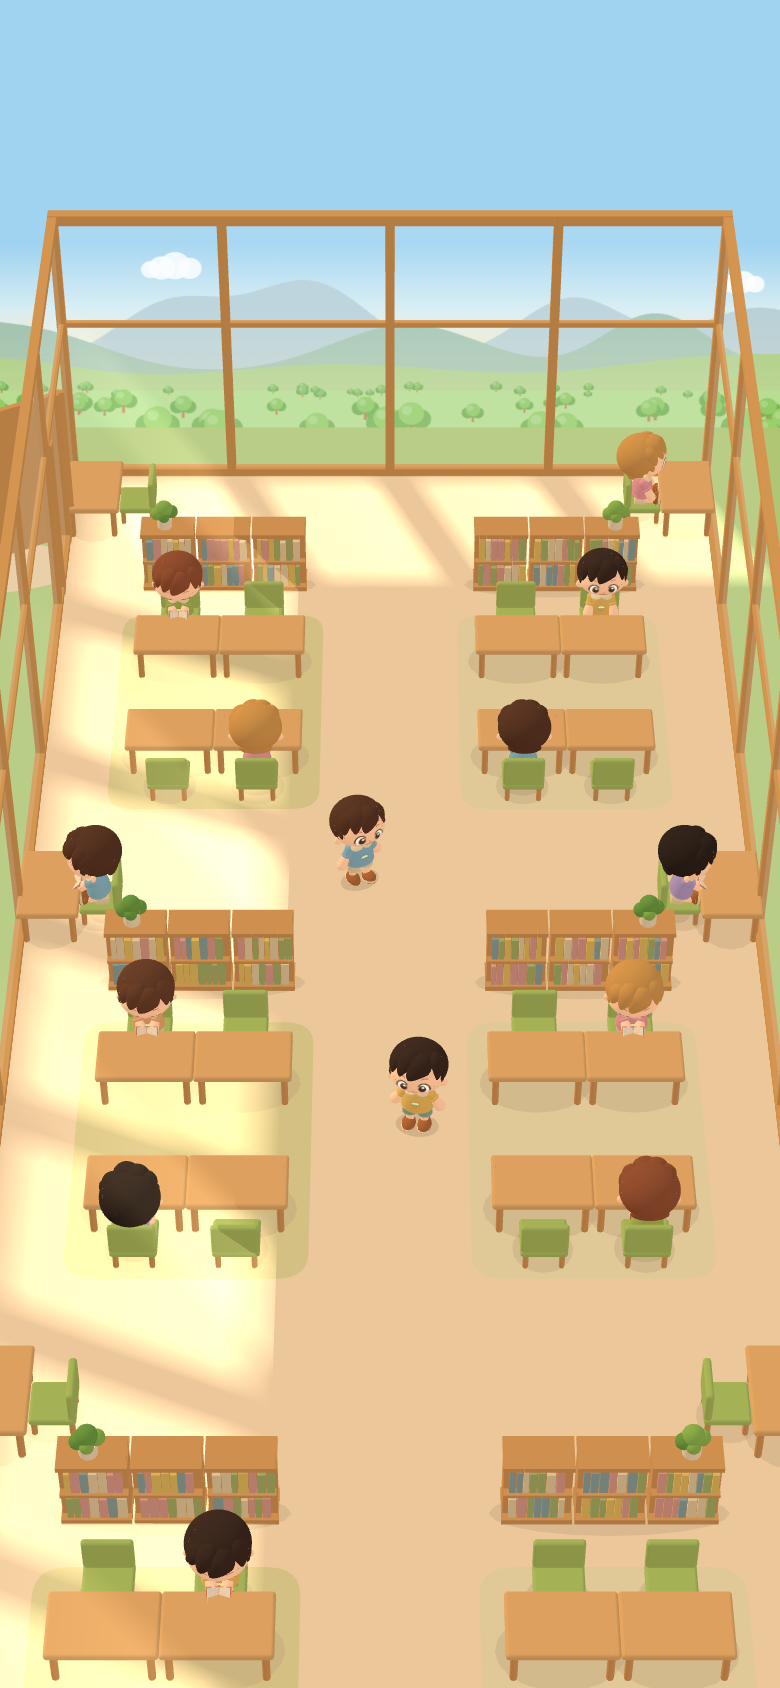
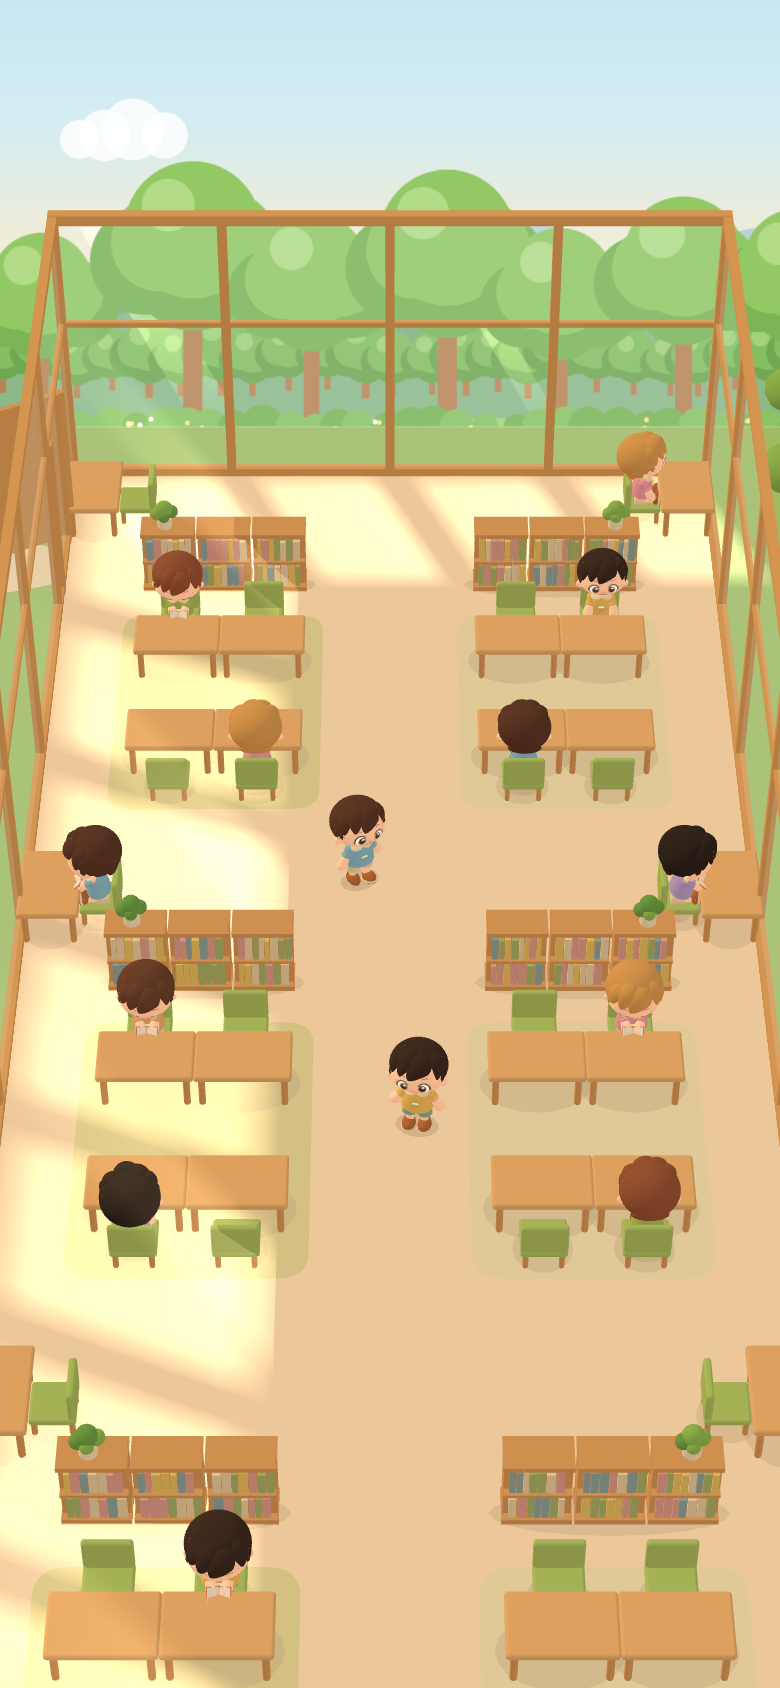
3D 도서관 시제품: 창밖을 숲속 풍경으로 바꾸고 도서관 둘레를 빽빽한 숲으로 감쌈
Claude-Session: https://claude.ai/code/session_0159aZotMhLJwovxiTTw4ndE

Changed region(s): [[0.0, 0.0, 1.0, 0.3081]]

diff --git a/prototype/3d-library/library.js b/prototype/3d-library/library.js
@@ -10,7 +10,7 @@ export const PALETTE = {
   floor: '#F5DFC2', wall: '#F7DFC0', frame: '#DDA765', shelf: '#D7A064',
   books: ['#A9BC78', '#E7C96F', '#8FAEB5', '#DFA7A0', '#EAD9B5'],
   desk: '#E6B477', chair: '#ACC76C', rug: '#DDD8A5', shadow: '#B39473',
-  leaf: '#8FBF5A', leafDark: '#6FA64C', pot: '#F3E6CC', grass: '#B8DE92', grassDark: '#A8D282', sky: '#CDEBFA', path: '#F3E3C2', trunk: '#C79562',
+  leaf: '#8FBF5A', leafDark: '#6FA64C', pot: '#F3E6CC', grass: '#A6D27C', grassDark: '#A8D282', sky: '#CDEBFA', path: '#F3E3C2', trunk: '#C79562',
 };
 const gx = (c) => (c - GRID.w / 2) * CELL, gz = (c) => (c - GRID.d / 2) * CELL;
 const deg = THREE.MathUtils.degToRad;
@@ -67,56 +67,58 @@ class Batch {
   }
 }
 
-function landscapeTexture() {
-  const W = 4096, H = 320, k = H / 1024, c = document.createElement('canvas'); c.width = W; c.height = H; const g = c.getContext('2d');
-  let sd = 11; const rnd = () => (sd = (sd * 16807) % 2147483647) / 2147483647;
-  // 하늘: 위는 맑은 하늘색, 산 쪽으로 갈수록 따뜻한 햇살색
-  const sky = g.createLinearGradient(0, 0, 0, H * 0.62);
-  sky.addColorStop(0, '#9FD3F0'); sky.addColorStop(0.55, '#D8EEF2'); sky.addColorStop(1, '#FFE9C6');
+// 창밖 숲 풍경: 아래쪽 띠(LAND_FRAC)가 통창 너머로 보이는 부분. 큰 나무는 그 위 하늘까지 솟음
+function landscapeTexture(aspect) {
+  const W = 4096, H = Math.round(W / aspect), c = document.createElement('canvas'); c.width = W; c.height = H; const g = c.getContext('2d');
+  const strip = H * LAND_FRAC, y0 = H - strip;       // y0: 보이는 띠의 위쪽 끝
+  let sd = 23; const rnd = () => (sd = (sd * 16807) % 2147483647) / 2147483647;
+  // 하늘
+  const sky = g.createLinearGradient(0, 0, 0, y0 + strip * 0.3);
+  sky.addColorStop(0, '#9FD3F0'); sky.addColorStop(0.7, '#D4EDF2'); sky.addColorStop(1, '#FFEBC8');
   g.fillStyle = sky; g.fillRect(0, 0, W, H);
-  // 해와 햇무리(왼쪽 위)
-  const sun = g.createRadialGradient(W * 0.2, H * 0.14, 0, W * 0.2, H * 0.14, H * 0.9);
-  sun.addColorStop(0, '#FFF6D8ff'); sun.addColorStop(0.12, '#FFEBB8cc'); sun.addColorStop(0.45, '#FFE2A833'); sun.addColorStop(1, '#FFE2A800');
+  const sun = g.createRadialGradient(W * 0.14, y0 - strip * 0.2, 0, W * 0.14, y0 - strip * 0.2, strip * 1.6);
+  sun.addColorStop(0, '#FFF7DCff'); sun.addColorStop(0.15, '#FFECBBcc'); sun.addColorStop(0.5, '#FFE3A833'); sun.addColorStop(1, '#FFE3A800');
   g.fillStyle = sun; g.fillRect(0, 0, W, H);
-  // 구름
   g.fillStyle = '#ffffffd9';
-  for (const [x, y, ck] of [[0.42, 0.12, 1], [0.62, 0.2, 0.8], [0.8, 0.09, 0.65], [0.3, 0.24, 0.55], [0.12, 0.3, 0.6], [0.95, 0.22, 0.7]]) for (const [dx, dy, r] of [[0, 0, 46], [44, -12, 54], [92, 2, 42], [-36, 8, 34]]) { g.beginPath(); g.arc(x * W + dx * ck * 1.4 * k, y * H + dy * ck * k, r * ck * 1.3 * k, 0, 7); g.fill(); }
-  // 산 능선: 부드러운 봉우리를 겹침
-  const ridge = (base, amp, peaks, color, top = '#ffffff00') => {
-    const grd = g.createLinearGradient(0, base - amp, 0, H); grd.addColorStop(0, color); grd.addColorStop(1, color);
-    g.fillStyle = grd; g.beginPath(); g.moveTo(0, H);
-    for (let x = 0; x <= W; x += 8) {
-      let y = base;
-      for (const [px, w, h] of peaks) y -= h * amp * Math.exp(-Math.pow((x / W - px) / w, 2));
-      g.lineTo(x, y);
-    }
+  for (const [x, y, k] of [[0.4, -0.55, 1], [0.66, -0.35, 0.8], [0.86, -0.7, 0.7], [0.27, -0.25, 0.55]]) for (const [dx, dy, r] of [[0, 0, 0.1], [0.09, -0.03, 0.12], [0.19, 0, 0.09], [-0.08, 0.02, 0.075]]) { g.beginPath(); g.arc(x * W + dx * strip * k * 1.6, y0 + y * strip + dy * strip * k, r * strip * k * 1.3, 0, 7); g.fill(); }
+  // 숲 위로 살짝 보이는 먼 산
+  const ridge = (base, amp, n, wMin, wMax, color) => {
+    const pk = Array.from({ length: n }, (_, i) => [(i + rnd() * 0.7) / n, wMin + rnd() * (wMax - wMin), 0.55 + rnd() * 0.45]);
+    g.fillStyle = color; g.beginPath(); g.moveTo(0, H);
+    for (let x = 0; x <= W; x += 8) { let y = base; for (const [px, w, h] of pk) y -= h * amp * Math.exp(-Math.pow((x / W - px) / w, 2)); g.lineTo(x, y); }
     g.lineTo(W, H); g.closePath(); g.fill();
   };
-  const peaks = (n, wMin, wMax, hMin, hMax, off = 0) => Array.from({ length: n }, (_, i) => [(i + off + rnd() * 0.6) / n, wMin + rnd() * (wMax - wMin), hMin + rnd() * (hMax - hMin)]);
-  ridge(H * 0.6, H * 0.5, peaks(13, 0.022, 0.034, 0.55, 1), '#B7D0D8');    // 가장 먼 산(푸르스름)
-  ridge(H * 0.65, H * 0.36, peaks(11, 0.026, 0.04, 0.5, 1), '#9DC2B0');    // 중간 산
-  ridge(H * 0.71, H * 0.16, peaks(9, 0.04, 0.06, 0.6, 1), '#A6CF86');      // 가까운 언덕
-  // 산 위 햇살 번짐
-  const glow = g.createLinearGradient(0, H * 0.3, 0, H * 0.75); glow.addColorStop(0, '#FFE8B800'); glow.addColorStop(1, '#FFE8B840');
-  g.fillStyle = glow; g.fillRect(0, H * 0.3, W, H * 0.45);
-  // 들판
-  g.fillStyle = '#B8DE92'; g.fillRect(0, H * 0.74, W, H);
-  // 나무 숲(뒤 → 앞)
-  const tree = (x, y, r, leaf, leafDark) => {
-    g.fillStyle = '#C08A58'; g.fillRect(x - r * 0.12, y - r * 0.2, r * 0.24, r * 0.75);
-    g.fillStyle = leafDark; for (const [dx, dy, k] of [[-0.5, 0.05, 0.62], [0.5, 0.05, 0.62]]) { g.beginPath(); g.arc(x + dx * r, y - r * 0.55 + dy * r, r * k, 0, 7); g.fill(); }
-    g.fillStyle = leaf; g.beginPath(); g.arc(x, y - r * 0.85, r * 0.72, 0, 7); g.fill();
-    g.fillStyle = '#ffffff30'; g.beginPath(); g.arc(x - r * 0.25, y - r * 1.05, r * 0.3, 0, 7); g.fill();
+  ridge(y0 + strip * 0.32, strip * 0.55, 12, 0.025, 0.04, '#B8D2D8');
+  ridge(y0 + strip * 0.38, strip * 0.38, 10, 0.03, 0.045, '#A5C9B8');
+  // 둥근 나무 한 그루 (줄기 + 뭉게뭉게 잎)
+  const tree = (x, base, r, leaf, dark, light, trunkH = 1.1) => {
+    g.fillStyle = '#B98455'; g.fillRect(x - r * 0.11, base - r * trunkH, r * 0.22, r * trunkH + 2);
+    const cy = base - r * trunkH - r * 0.55;
+    g.fillStyle = dark; for (const [dx, dy, k] of [[-0.55, 0.25, 0.62], [0.55, 0.25, 0.62], [0, 0.35, 0.7]]) { g.beginPath(); g.arc(x + dx * r, cy + dy * r, r * k, 0, 7); g.fill(); }
+    g.fillStyle = leaf; for (const [dx, dy, k] of [[0, -0.1, 0.78], [-0.38, 0.05, 0.55], [0.4, 0.02, 0.55]]) { g.beginPath(); g.arc(x + dx * r, cy + dy * r, r * k, 0, 7); g.fill(); }
+    g.fillStyle = light; g.beginPath(); g.arc(x - r * 0.28, cy - r * 0.38, r * 0.3, 0, 7); g.fill();
   };
-  for (let i = 0; i < 90; i++) tree(rnd() * W, H * (0.73 + rnd() * 0.04), (16 + rnd() * 14) * k, '#8CC56A', '#76B05A');
-  for (let i = 0; i < 60; i++) tree(rnd() * W, H * (0.8 + rnd() * 0.08), (34 + rnd() * 26) * k, '#93CB66', '#79B456');
-  for (let i = 0; i < 34; i++) tree(rnd() * W, H * (0.92 + rnd() * 0.06), (60 + rnd() * 34) * k, '#9ACF6A', '#7FB85A');
-  // 위로 하늘을 넉넉히 이어 붙임(풍경은 아래 SKY_FRAC 부분만 차지)
-  const big = document.createElement('canvas'); big.width = W; big.height = Math.round(H / LAND_FRAC); const bg = big.getContext('2d');
-  bg.fillStyle = '#9FD3F0'; bg.fillRect(0, 0, W, big.height); bg.drawImage(c, 0, big.height - H);
-  const t = new THREE.CanvasTexture(big); t.colorSpace = THREE.SRGBColorSpace; t.anisotropy = 4; return t;
+  // 먼 숲 → 중간 숲 → 가까운 큰 나무 순서로 겹침
+  g.fillStyle = '#8DB98A'; g.fillRect(0, y0 + strip * 0.42, W, H);
+  for (let x = -20; x < W + 40; x += strip * (0.06 + rnd() * 0.04)) { const r = strip * (0.07 + rnd() * 0.04); g.fillStyle = rnd() > 0.5 ? '#8DB98A' : '#82B080'; g.beginPath(); g.arc(x, y0 + strip * (0.4 + rnd() * 0.05), r, 0, 7); g.fill(); }
+  for (let x = -40; x < W + 80; x += strip * (0.13 + rnd() * 0.08)) tree(x, y0 + strip * (0.72 + rnd() * 0.06), strip * (0.13 + rnd() * 0.05), '#86BE62', '#70A852', '#A2D27A', 0.9);
+  // 나무 사이로 비스듬히 내려오는 햇살
+  g.save(); g.globalCompositeOperation = 'lighter';
+  for (let i = 0; i < 9; i++) {
+    const x = W * (0.02 + i * 0.12 + rnd() * 0.04), w = strip * (0.12 + rnd() * 0.12);
+    const gr = g.createLinearGradient(0, y0 - strip * 0.2, 0, H); gr.addColorStop(0, '#FFE6A800'); gr.addColorStop(0.35, '#FFE6A838'); gr.addColorStop(1, '#FFE6A800');
+    g.fillStyle = gr; g.beginPath(); g.moveTo(x, y0 - strip * 0.2); g.lineTo(x + w, y0 - strip * 0.2); g.lineTo(x + w + strip * 0.7, H); g.lineTo(x + strip * 0.7, H); g.closePath(); g.fill();
+  }
+  g.restore();
+  // 가까운 큰 나무(위로 하늘까지 솟음, 사이사이 틈으로 뒤 숲이 보임)
+  for (let x = strip * 0.1; x < W; x += strip * (0.55 + rnd() * 0.35)) tree(x, H - strip * (0.06 + rnd() * 0.08), strip * (0.32 + rnd() * 0.14), '#93C964', '#7CB556', '#B2DC88', 1.5);
+  // 앞쪽 덤불과 풀밭, 작은 꽃
+  g.fillStyle = '#A6D27C'; g.fillRect(0, H - strip * 0.12, W, strip * 0.12);
+  for (let x = -20; x < W + 40; x += strip * (0.1 + rnd() * 0.06)) { const r = strip * (0.06 + rnd() * 0.05); g.fillStyle = rnd() > 0.5 ? '#8BC463' : '#7AB656'; g.beginPath(); g.arc(x, H - strip * 0.08, r, Math.PI, 0); g.fill(); }
+  for (let i = 0; i < 160; i++) { g.fillStyle = ['#FFFFFF', '#FFD6E0', '#FFE58A'][i % 3]; g.beginPath(); g.arc(rnd() * W, H - strip * (0.02 + rnd() * 0.1), strip * 0.012, 0, 7); g.fill(); }
+  const t = new THREE.CanvasTexture(c); t.colorSpace = THREE.SRGBColorSpace; t.anisotropy = 4; return t;
 }
-const LAND_FRAC = 0.26;   // 풍경판에서 산·숲 그림이 차지하는 아래쪽 비율
+const LAND_FRAC = 0.26;   // 풍경판에서 통창 너머로 보이는 아래쪽 띠의 비율
 
 // 햇빛 자국: 가장자리가 부드럽게 번지는 따뜻한 빛 조각
 function softRectTexture() {
@@ -274,7 +276,7 @@ export function buildLibrary(scene) {
 
   // ── 창밖 풍경판: 카메라를 똑바로 바라보도록 기울여 세운 큰 그림(산·나무·하늘)
   const BD_H = 2.3 / LAND_FRAC;
-  const backdrop = new THREE.Mesh(new THREE.PlaneGeometry(W + 26, BD_H), new THREE.MeshBasicMaterial({ map: landscapeTexture(), fog: false }));
+  const backdrop = new THREE.Mesh(new THREE.PlaneGeometry(W + 26, BD_H), new THREE.MeshBasicMaterial({ map: landscapeTexture((W + 26) / BD_H), fog: false }));
   backdrop.position.set(0, 0, zBack - 0.8); root.add(backdrop);
   const faceBackdrop = (pitchRad) => {
     backdrop.rotation.set(-pitchRad, 0, 0);
@@ -288,10 +290,18 @@ export function buildLibrary(scene) {
     solid.add(P.trunk, cyl, x, 0.55 * k, z, 0, 0.13 * k, 1.1 * k, 0.13 * k);
     for (const [dx, dy, dz, r] of [[0, 1.75, 0, 0.75], [-0.5, 1.45, 0.1, 0.52], [0.5, 1.45, -0.1, 0.52], [0, 1.4, 0.45, 0.48]]) solid.add(dy > 1.6 ? P.leaf : P.leafDark, ball, x + dx * k, dy * k, z + dz * k, 0, r * k, r * k, r * k);
   };
-  for (let z = -D / 2 + 1; z < D / 2; z += 3.2) {
-    for (const side of [-1, 1]) { const x = side * (W / 2 + 2.2 + rnd() * 1.6); tree(x, z + rnd() * 1.4, 0.95 + rnd() * 0.5); }
-    for (const side of [-1, 1]) solid.add(P.leafDark, ball, side * (W / 2 + 0.9 + rnd() * 0.5), 0.24, z + 1.6, 0, 0.36, 0.3, 0.36);
+  for (let z = -D / 2 - 2; z < D / 2 + 3; z += 1.7) {
+    for (const side of [-1, 1]) {
+      for (const [dist, kMin, kMax] of [[1.9, 0.85, 1.2], [3.6, 1.0, 1.5], [5.6, 1.2, 1.8], [8, 1.3, 2.0]]) {
+        const tz = z + rnd() * 1.5, tx = side * (W / 2 + dist + rnd() * 1.1), tk = kMin + rnd() * (kMax - kMin);
+        const doorZ = side < 0 ? (doorGarden.z0 + doorGarden.z1) / 2 : (doorEntry.z0 + doorEntry.z1) / 2;
+        if (Math.abs(tz - doorZ) < 1.6 && dist < 5) continue;   // 문 앞 길은 비워 둠
+        tree(tx, tz, tk);
+      }
+      solid.add(rnd() > 0.5 ? P.leafDark : P.leaf, ball, side * (W / 2 + 0.75 + rnd() * 0.35), 0.22, z + rnd(), 0, 0.34, 0.28, 0.34);
+    }
   }
+  for (let x = -W / 2 - 9; x < W / 2 + 9; x += 1.8) for (const dz of [2.2, 4.2]) tree(x + rnd(), zFront + dz + rnd(), 1.1 + rnd() * 0.6);   // 앞쪽 숲
   flat.add(P.path, new THREE.CircleGeometry(1, 40), xL - 1.6, -0.02, gz(5.5), 0, 1.8, 0.55, 1, -Math.PI / 2);
   flat.add(P.path, new THREE.CircleGeometry(1, 40), xR + 1.6, -0.02, gz(69.5), 0, 1.8, 0.55, 1, -Math.PI / 2);
 
